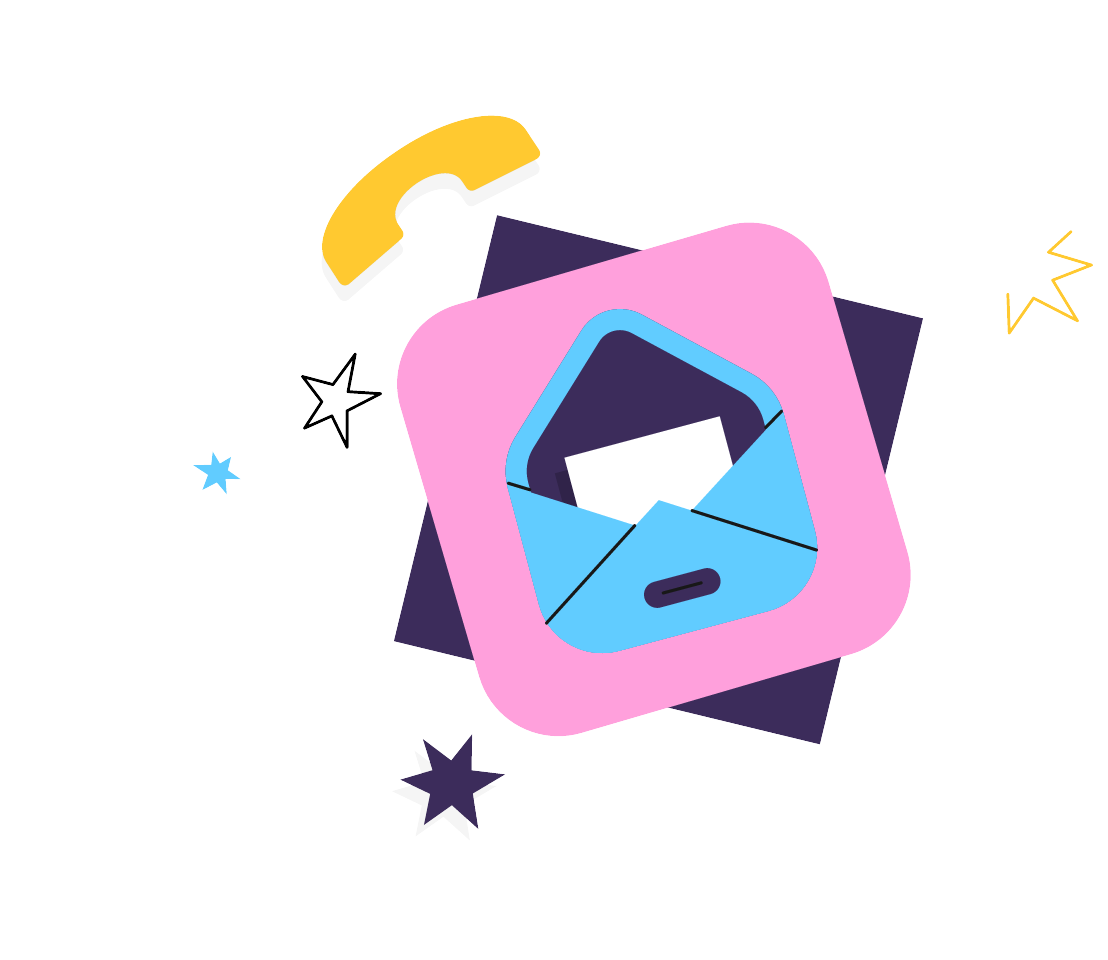
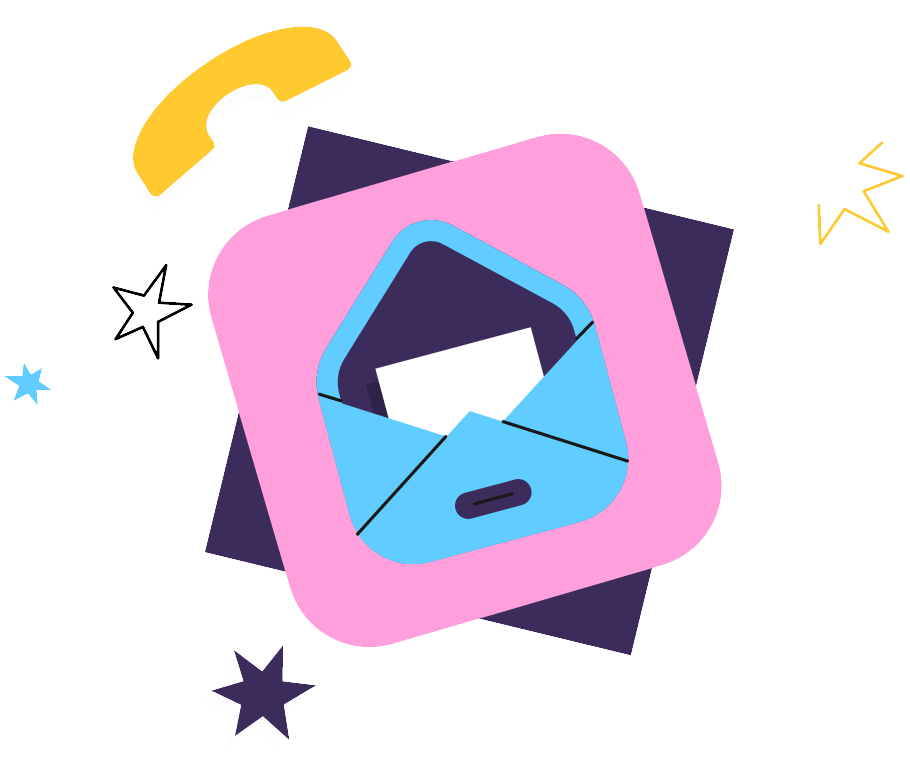
comitt nif niss main rodrigo

diff --git a/site/style.css b/site/style.css
@@ -19,13 +19,24 @@ main{
     grid-template-columns: repeat(2, 2fr);
     grid-gap: 1.5rem;
     align-items: center;
-    margin-top: 150px;
+    margin-top: 120px;
 }
+
 .text-main-1 h1{
     font-family: trattatello, fantasy;
     font-weight: 500;
     font-size: 50px;
     color: rgb(7, 43, 97);
+}
+.text-main-2 h2{
+    font-size: 25px;
+    color: rgb(9, 51, 113);
+    
+}
+.text-main-3 h2{
+    font-size: 25px;
+    color: rgb(9, 51, 113);
+    
 }
 .text-main-1 h4{
     font-weight: 600;
@@ -41,13 +52,31 @@ main{
     font-weight: 500;
 }
 
-.image-main-1 { zoom: 25%;}
+.image-main-1 { 
+    zoom: 55%;
+}
 
 /* NIF PART */
-.image-main-2 { zoom: 20%;}
+.image-main-2 {
+    background-color: rgba(92, 92, 216, 0.105) !important;
+    zoom: 55%;
+    display: flex;
+    justify-content: center;
+    align-items: center;
+    border-radius: 20%;
+    margin: 100px;
+    }
 
 /* NISS PART */
-.image-main-3 { zoom: 49%;}
+.image-main-3 { 
+    background-color: rgba(92, 92, 216, 0.105) !important;
+    zoom: 55%;
+    display: flex;
+    justify-content: center;
+    align-items: center;
+    border-radius: 20%;
+    margin: 100px;
+}
 
 /* LINK 'A' "BUTTON" STYLE */
 .hover-button{
@@ -62,7 +91,19 @@ main{
     transform: scale(1.2);
     transition: all 0.4S;
 }
-
+.vertical-row {
+    position: relative;
+  }
+  
+  .vertical-row::before {
+    content: '';
+    position: absolute;
+    top: 0;
+    left: 0;
+    width: 2px; /* largura da linha vertical */
+    height: 100%; /* altura da linha vertical */
+    background-color: rgb(0, 37, 78); /* cor da linha vertical */
+  }
 /* RESPONSIVE BODY */
 @media screen and (max-width: 1050px) {
     .content-main {

diff --git a/site/index.html b/site/index.html
@@ -46,13 +46,11 @@
       </div>
 
       <!-- CONTEUDO NIFF -->
-      <div class="content-main">
-
-        <div class="image-main-2">
-          <img  src="/site/assets/images/imagem-do-nif.png">
-        </div>
+      <div class="content-main content-main-2">
         <div class="text-main-2">
-          <h2>Secure your Portuguese NIF online with us!</h2>
+          <div class="vertical-row">
+          <h2>&nbsp;&nbsp;Secure your Portuguese NIF online with us!</h2>
+        </div>
           <br>
           <p>
             Acquiring the Tax Identification Number (NIF) in just 3 days is crucial 
@@ -69,13 +67,17 @@
               Get your NIF
             </a>
         </div>
-     
+        <div class="image-main-2">
+          <img  src="/site/assets/images/imagem-do-nif.png">
+        </div>
       </div>
 
       <!-- CONTEUDO NISS -->
       <div class="content-main">
         <div class="text-main-3">
-          <h2>Get your NISS Portugal Online with us!</h2>
+          <div class="vertical-row">
+          <h2>&nbsp;&nbsp;Get your NISS Portugal Online with us!</h2>
+        </div>
           <br>
           <p>
             The NISS in Portugal is a unique identifier for citizens contributing to the Social Security system. It grants access to social services, benefits, and healthcare. Essential for accessing rights like pensions and medical assistance, it's crucial for workers seeking social protection while in Portugal.
